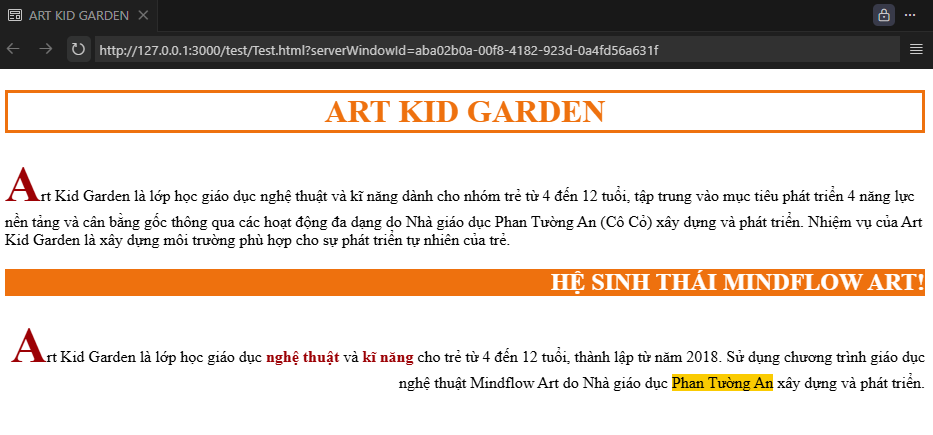
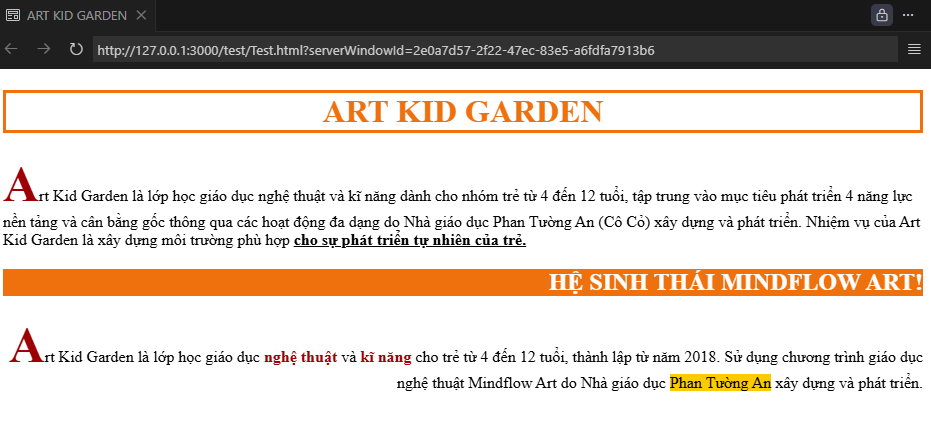
- Update demo.png

diff --git a/Projects/error404-labs/test/Test.html b/Projects/error404-labs/test/Test.html
@@ -22,7 +22,7 @@
 			học giáo dục nghệ thuật và kĩ năng dành cho nhóm trẻ từ 4 đến 12 tuổi, tập trung vào mục tiêu
 			phát triển 4 năng lực nền tảng và cân bằng gốc thông qua các hoạt động đa dạng do Nhà giáo dục
 			Phan Tường An (Cô Cỏ) xây dựng và phát triển. Nhiệm vụ của Art Kid Garden là xây dựng môi
-			trường phù hợp cho sự phát triển tự nhiên của trẻ.
+			trường phù hợp <b><u>cho sự phát triển tự nhiên của trẻ.</u></b>
 		</p>
 		<h2 style="text-align: right; background-color: #ee710e; color: #fff">
 			HỆ SINH THÁI MINDFLOW ART!
